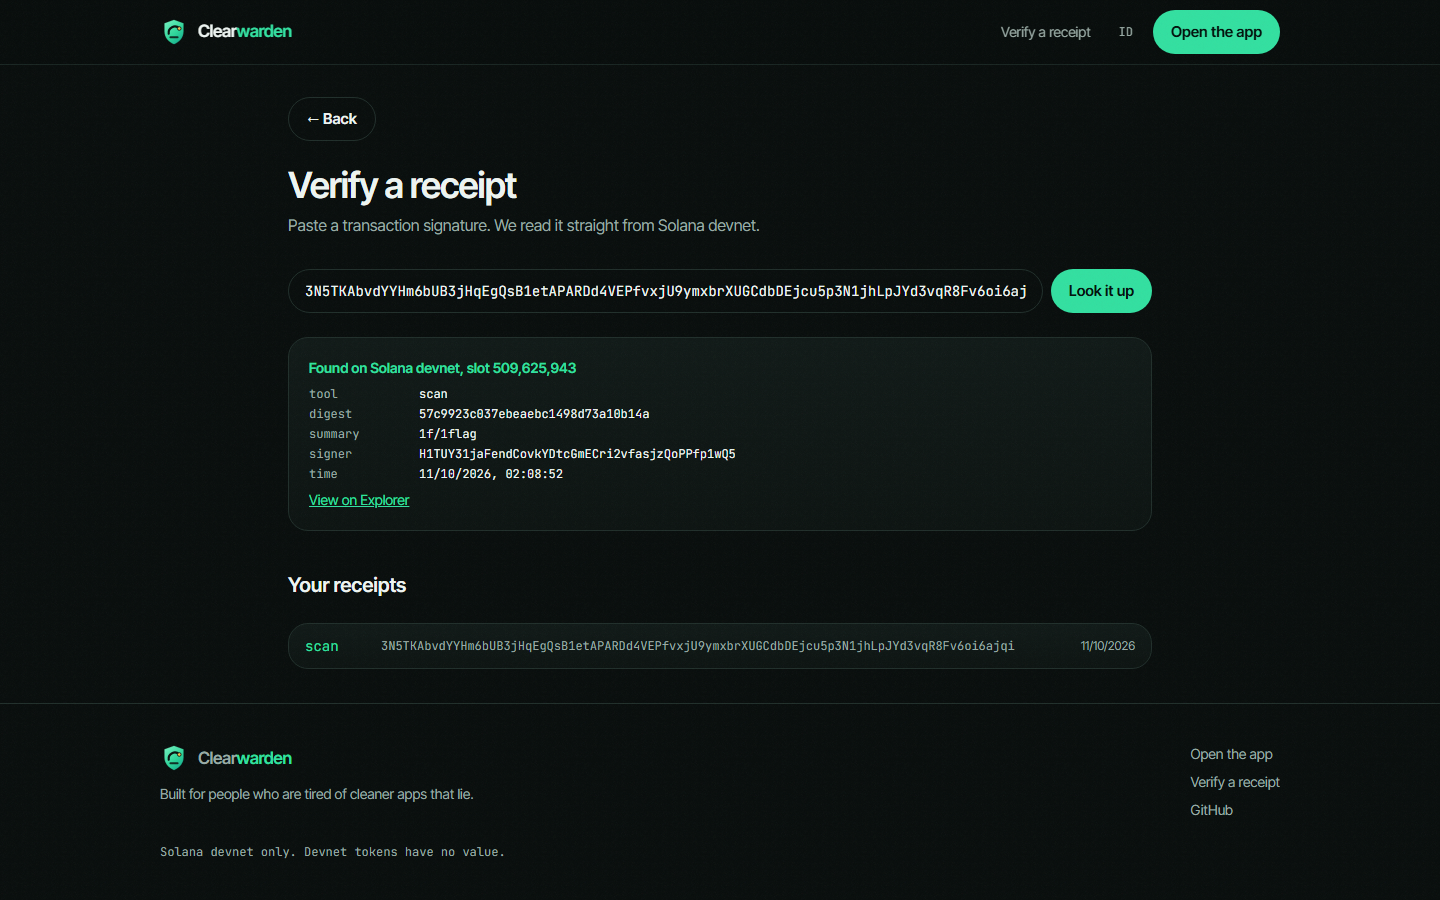
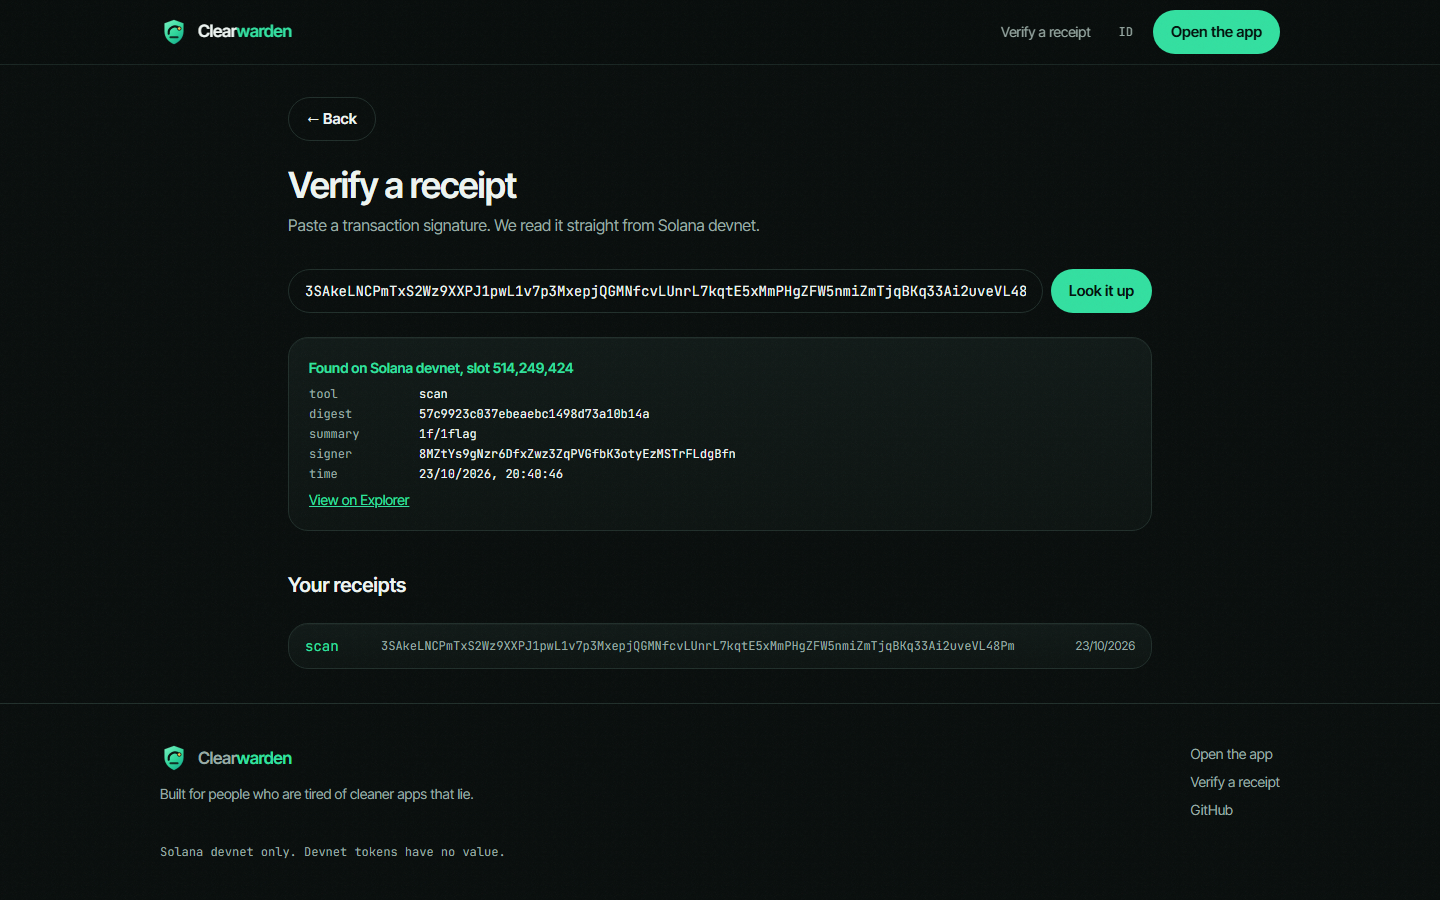
Record 21/21 harness run with a devnet receipt verified on chain
Also restore README bytes that a Windows re-encode had mangled.

diff --git a/README.md b/README.md
@@ -1,4 +1,4 @@
-# Clearwarden
+# Clearwarden
 
 A phone, tablet and laptop cleaner that does its work on your device. Nothing is uploaded. Every result can be stamped onto Solana devnet as a receipt that anyone can check.
 
@@ -13,12 +13,12 @@ A phone, tablet and laptop cleaner that does its work on your device. Nothing is
 | Malware file scan | Yes | Yes | SHA-256 match against a known-bad list, plus heuristics: disguised executables, double extensions, macro documents, PDFs with active content, obfuscated scripts, sideloaded APKs. Self-test with the EICAR file. |
 | Link / domain check | Yes | Yes | Cloudflare malware-blocking DNS over HTTPS. A `0.0.0.0` answer means the domain is on the block list. |
 | Junk, WhatsApp media, APK and large-file sweep | Chrome / Edge on desktop | Yes (inside the app's web view) | File System Access API. You pick a folder, review the list, then delete. Nothing is deleted without a tap. |
-| Duplicate photos | Yes | Yes | Perceptual difference hash (9Ã—8 dHash) with Hamming distance â‰¤ 5, so resized copies still match. |
+| Duplicate photos | Yes | Yes | Perceptual difference hash (9×8 dHash) with Hamming distance ≤ 5, so resized copies still match. |
 | Vault (hidden files) | Yes | Yes | AES-256-GCM. Key from PBKDF2-SHA256, 310,000 rounds. Stored in IndexedDB. Optional Face ID, fingerprint or Windows Hello gate through WebAuthn. |
 | Network speed test | Yes | Yes | Ping, jitter, download and upload against Cloudflare's speed endpoints. |
 | Data usage | This session only | This session only | Resource timing of the page. A browser cannot read other apps' traffic. |
 | Boost / clean this app's cache | Yes | Yes | Clears Cache Storage, service workers and session data for Clearwarden itself, and shows device memory, CPU threads, battery and connection type. |
-| Solana devnet receipts | Yes | Yes | A burner keypair in the browser writes `cw1|kind|sha256|summary` with the Memo program. `#/verify?sig=â€¦` reads it back from chain. |
+| Solana devnet receipts | Yes | Yes | A burner keypair in the browser writes `cw1|kind|sha256|summary` with the Memo program. `#/verify?sig=…` reads it back from chain. |
 
 ## What it does not do, and why
 
@@ -51,9 +51,9 @@ cd android && ./gradlew assembleDebug
 ## Proof
 
 - Screenshots from the harness: [`docs/evidence/`](docs/evidence/)
-- Harness results: [`docs/evidence/results.json`](docs/evidence/results.json)
-- Walkthrough video recorded by the harness: [`docs/video/`](docs/video/)
-- A devnet receipt written during the harness run: [`docs/evidence/devnet-receipt.txt`](docs/evidence/devnet-receipt.txt)
+- Harness results, 21/21 passing: [`docs/evidence/results.json`](docs/evidence/results.json)
+- Walkthrough video recorded by the harness (2 min 9 s): [`docs/video/walkthrough.mp4`](docs/video/walkthrough.mp4)
+- A devnet receipt written and then read back from chain during the harness run: [3SAkeLNC…uveVL48Pm](https://explorer.solana.com/tx/3SAkeLNCPmTxS2Wz9XXPJ1pwL1v7p3MxepjQGMNfcvLUnrL7kqtE5xMmPHgZFW5nmiZmTjqBKq33Ai2uveVL48Pm?cluster=devnet), memo `cw1|scan|57c9923c…|1f/1flag`
 
 ## Stack
 
